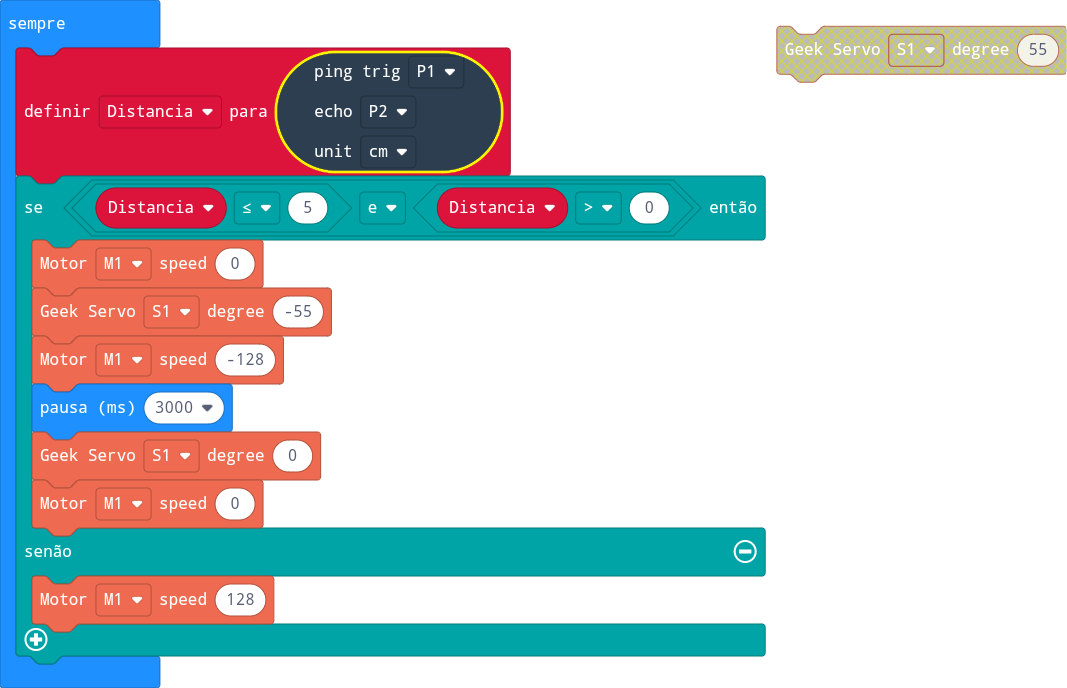
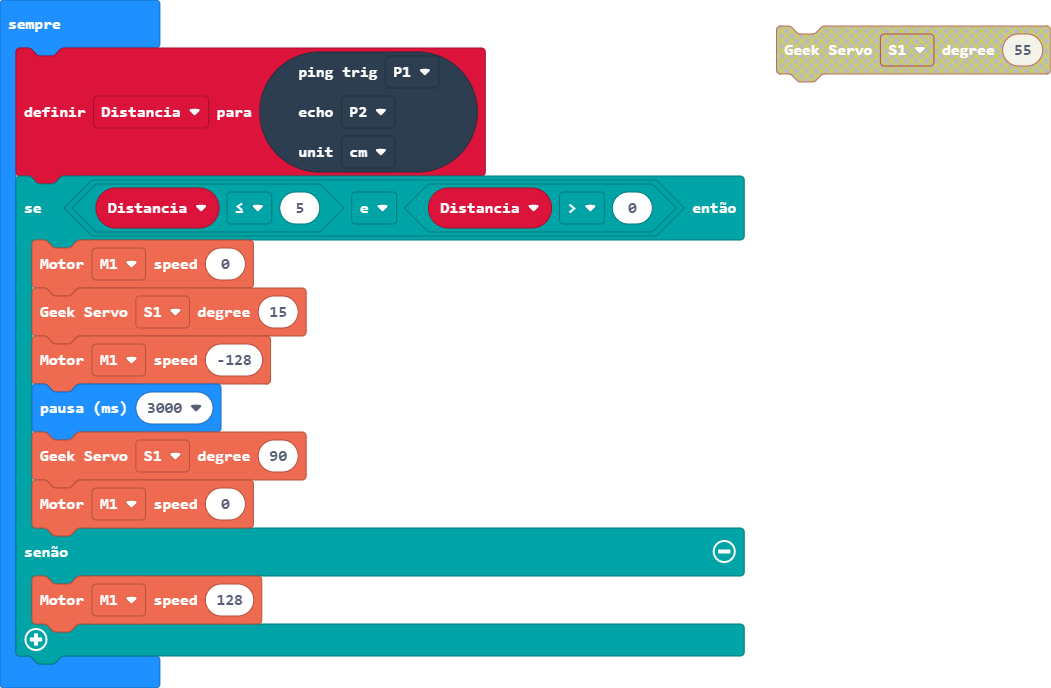
Correção dos angulos

diff --git a/main.ts b/main.ts
@@ -7,10 +7,10 @@ basic.forever(function () {
     )
     if (Distancia <= 5 && Distancia > 0) {
         magicbit.MotorRun(magicbit.Motors.M1, 0)
-        magicbit.GeekServo(magicbit.Servos.S1, -55)
+        magicbit.GeekServo(magicbit.Servos.S1, 15)
         magicbit.MotorRun(magicbit.Motors.M1, -128)
         basic.pause(3000)
-        magicbit.GeekServo(magicbit.Servos.S1, 0)
+        magicbit.GeekServo(magicbit.Servos.S1, 90)
         magicbit.MotorRun(magicbit.Motors.M1, 0)
     } else {
         magicbit.MotorRun(magicbit.Motors.M1, 128)
